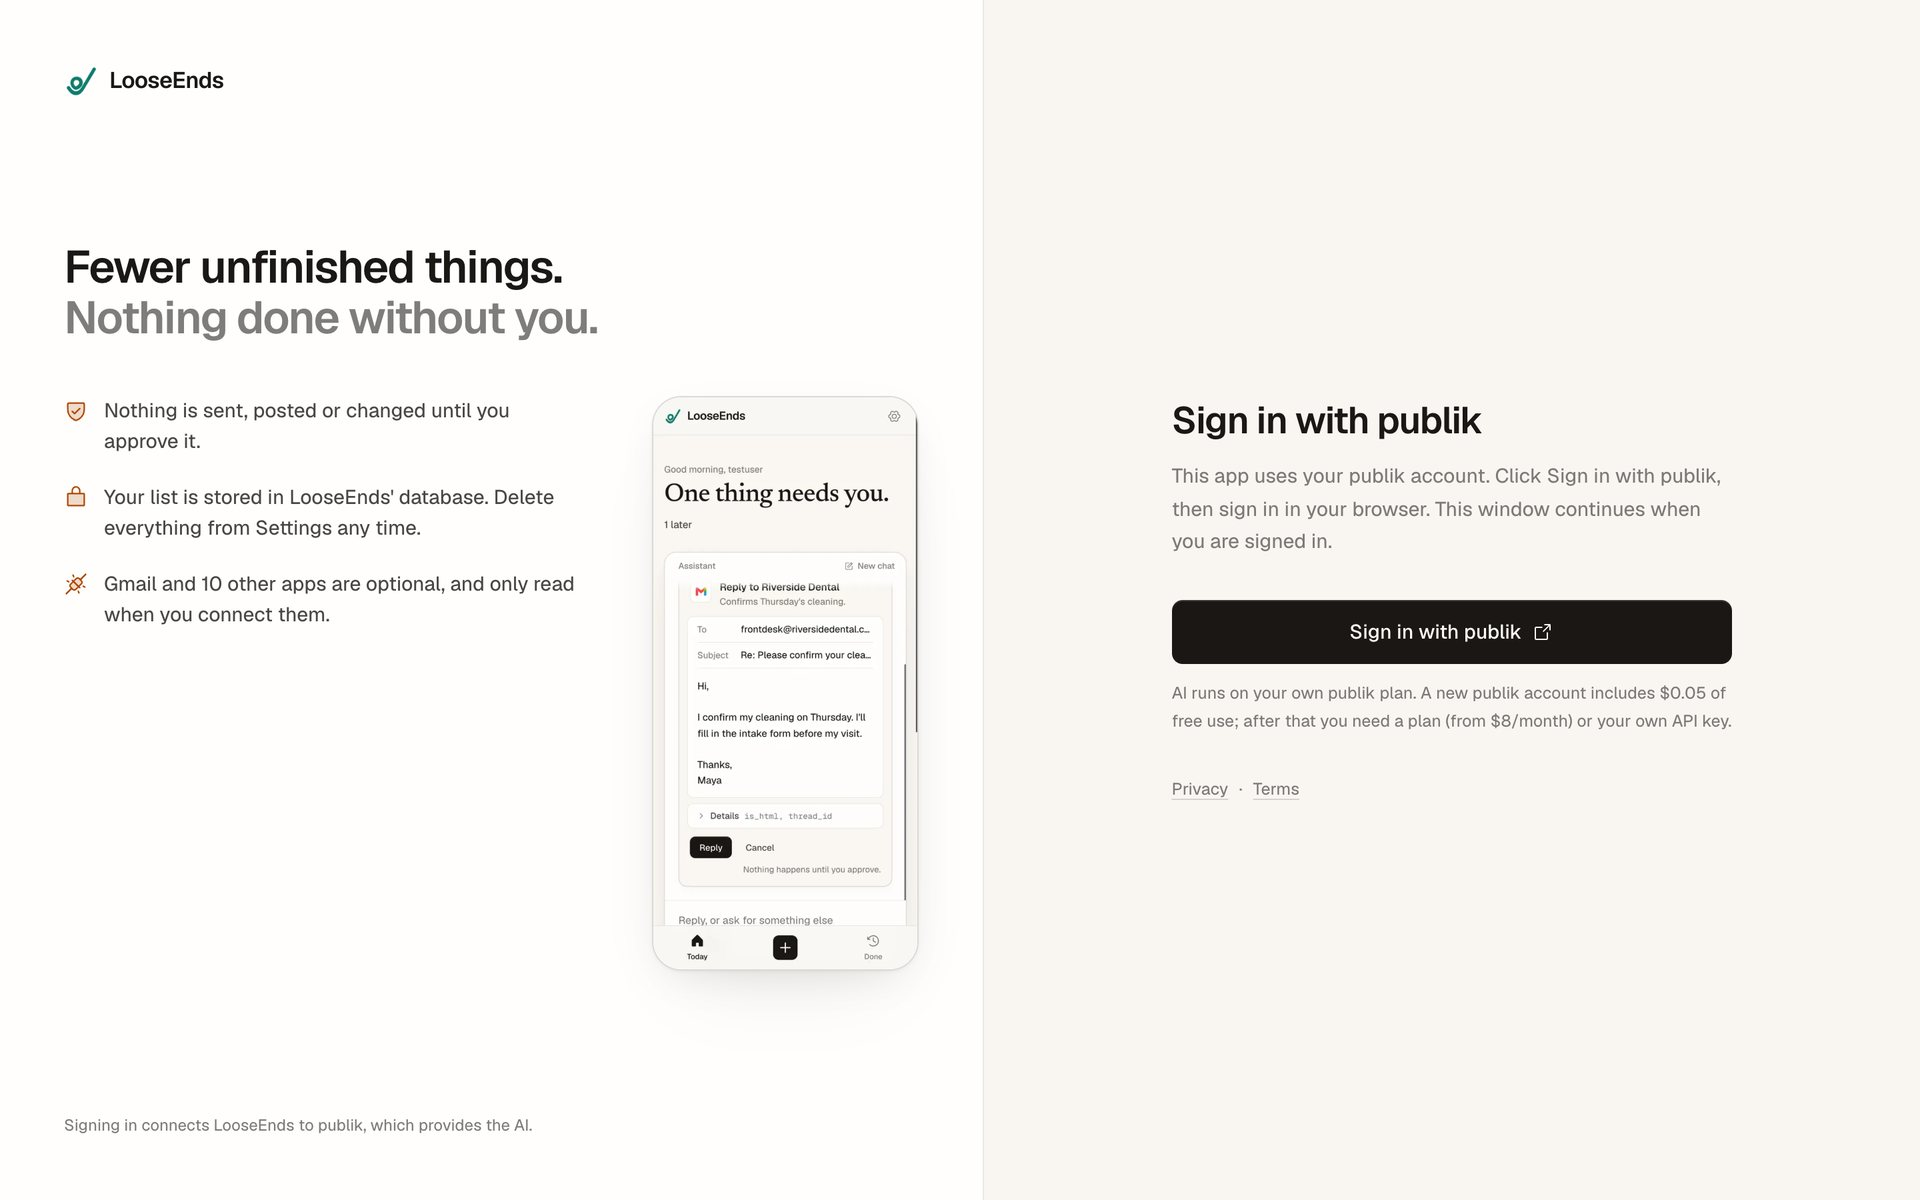
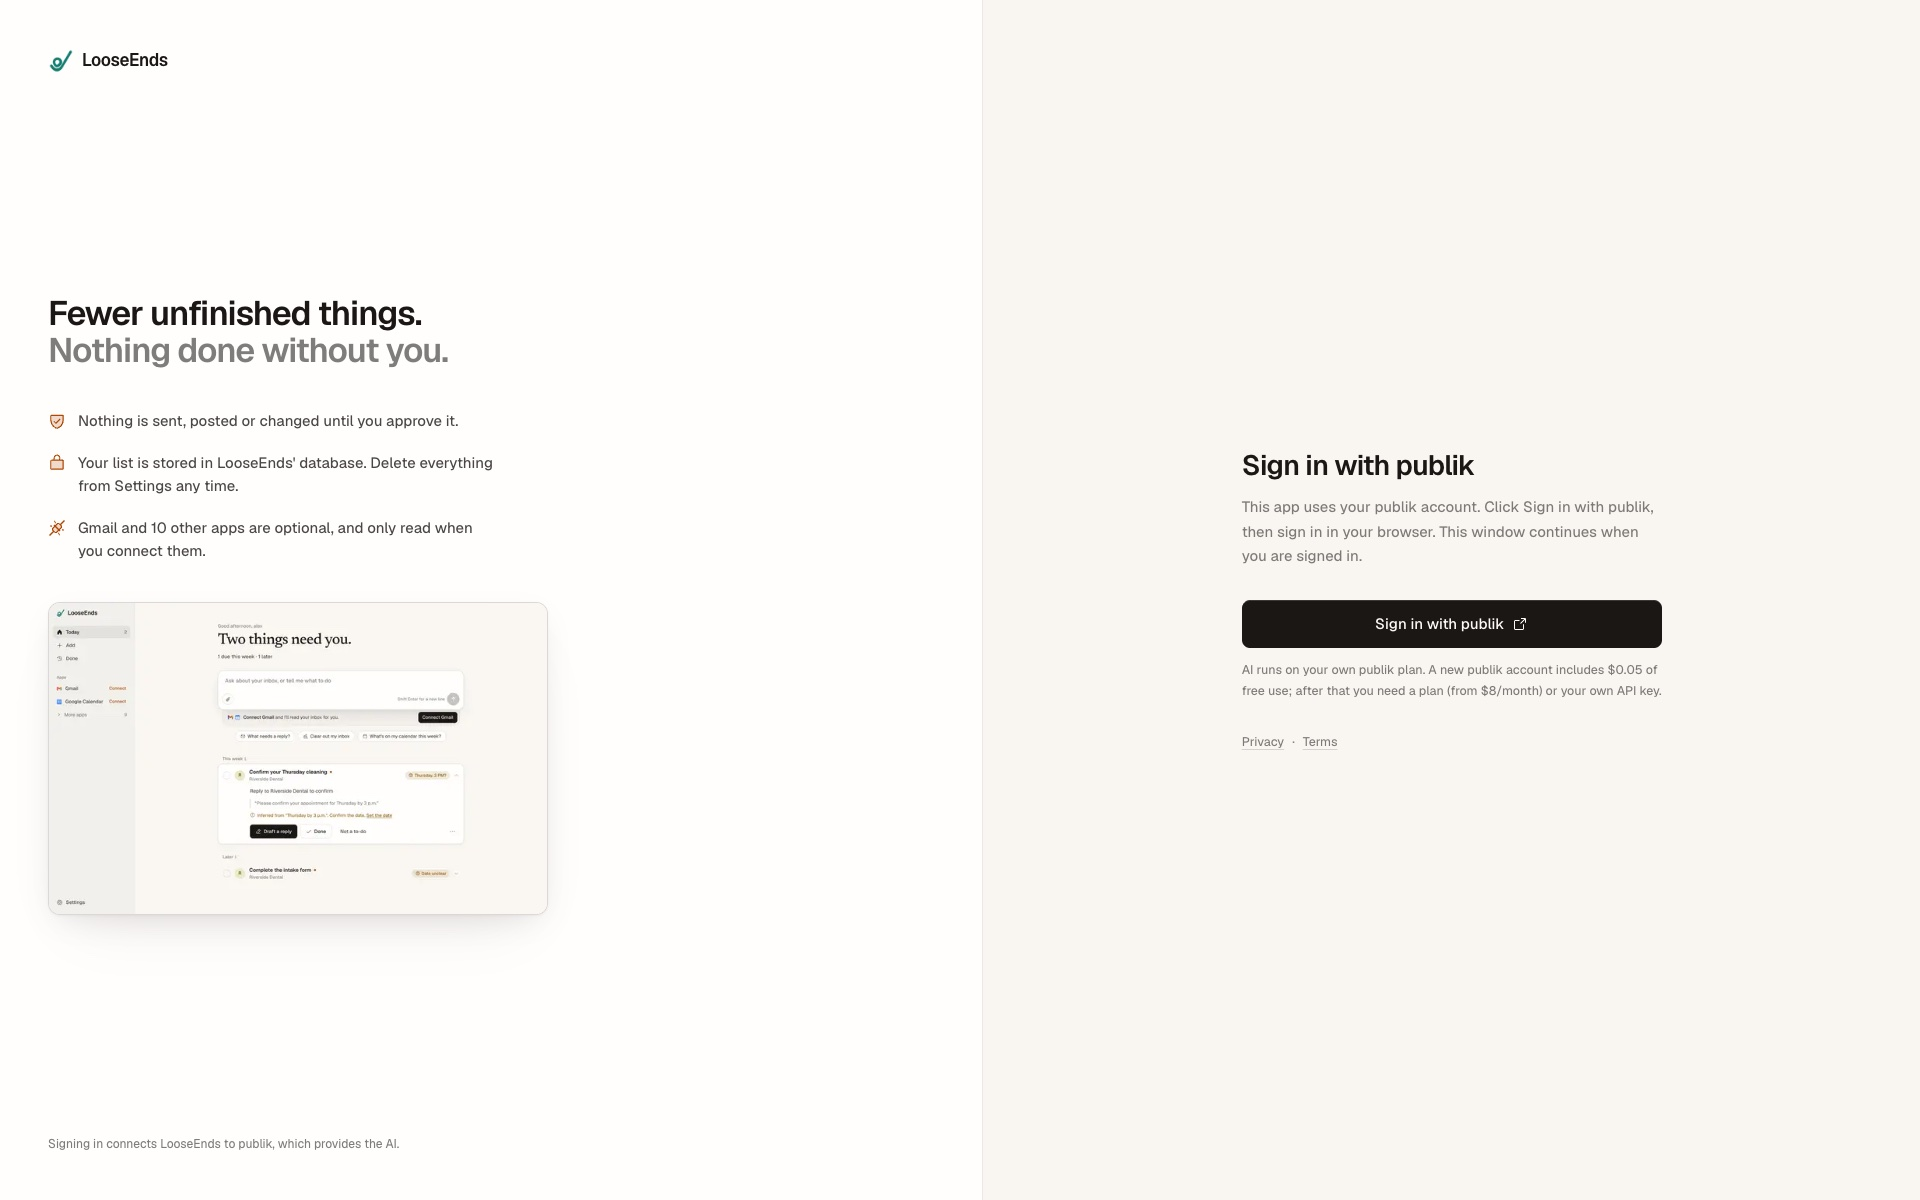
Show LooseEnds in desktop format on the sign-in gate and README
The gate now shows a 16:10 screenshot of the home screen (sample dentist
tasks and the assistant, neutral user) captured from the mock build at
1440x900, under the trust list on desktop and full-width below it on phones;
Sign in stays above the fold at 390x844. New file name so cached copies of the
phone image are not served. README drops the phone screenshot and uses a fresh
desktop gate capture. The mock AI answers the built-in sample email and its
draft realistically so screenshots can be reproduced.

diff --git a/src/components/app/gate.tsx b/src/components/app/gate.tsx
@@ -154,17 +154,15 @@ export function Gate({ children }: { children: ReactNode }) {
             <br />
             <span className="text-muted">Nothing done without you.</span>
           </p>
-          <div className="mt-10 flex items-start gap-10">
-            <ul className="max-w-md flex-1 space-y-5 text-[15px] text-pretty text-ink-2">
-              {TRUST.map((t) => (
-                <li key={t.text} className="flex gap-3">
-                  <span className="mt-0.5 shrink-0 text-accent-text">{t.icon}</span>
-                  {t.text}
-                </li>
-              ))}
-            </ul>
-            <Preview className="hidden w-[200px] shrink-0 xl:block" />
-          </div>
+          <ul className="mt-10 max-w-md space-y-5 text-[15px] text-pretty text-ink-2">
+            {TRUST.map((t) => (
+              <li key={t.text} className="flex gap-3">
+                <span className="mt-0.5 shrink-0 text-accent-text">{t.icon}</span>
+                {t.text}
+              </li>
+            ))}
+          </ul>
+          <Preview className="mt-10 hidden max-w-[500px] xl:block" />
         </div>
         <p className="text-xs text-muted">Signing in connects LooseEnds to publik, which provides the AI.</p>
       </aside>
@@ -213,7 +211,7 @@ export function Gate({ children }: { children: ReactNode }) {
                   </li>
                 ))}
               </ul>
-              <Preview className="mx-auto mt-8 w-[min(72%,260px)]" />
+              <Preview className="mt-8" />
             </div>
           ) : null}
           <p className="mt-8 text-[12.5px] text-muted">
@@ -233,17 +231,17 @@ export function Gate({ children }: { children: ReactNode }) {
   );
 }
 
-/** A real screenshot of LooseEnds on a phone: the list it builds and a reply waiting for approval. */
+/** A real screenshot of LooseEnds on a desktop: the list it built from a sample email, and the assistant. */
 function Preview({ className }: { className?: string }) {
   return (
     <div className={className}>
       <Image
-        src="/gate-preview.jpg"
-        alt="LooseEnds on a phone: tasks found in an inbox, and a reply waiting for your approval"
-        width={780}
-        height={1688}
-        sizes="260px"
-        className="h-auto w-full rounded-[22px] border border-line-strong shadow-float"
+        src="/gate-desktop.jpg"
+        alt="LooseEnds on a desktop: two tasks found in an email from a dentist, with the assistant ready below"
+        width={1600}
+        height={1000}
+        sizes="(min-width: 1280px) 500px, 100vw"
+        className="h-auto w-full rounded-xl border border-line-strong shadow-float"
       />
     </div>
   );

diff --git a/README.md b/README.md
@@ -39,10 +39,7 @@ Connecting apps is optional. LooseEnds can connect **Gmail, Google Calendar, Out
 - **Duplicates are caught**, and newsletters and sales emails are recognised as promotions, not obligations.
 - **You control your data.** Delete a task, a message, or everything from Settings. Delete everything also disconnects your apps. See the [privacy page](https://looseends-taupe.vercel.app/privacy) and [terms](https://looseends-taupe.vercel.app/terms).
 
-<p>
-  <img src="docs/images/gate.jpg" alt="The LooseEnds sign-in page" width="68%">
-  <img src="docs/images/mobile.jpg" alt="LooseEnds on a phone" width="28%">
-</p>
+![The LooseEnds sign-in page](docs/images/gate.jpg)
 
 ## AI and pricing
 
